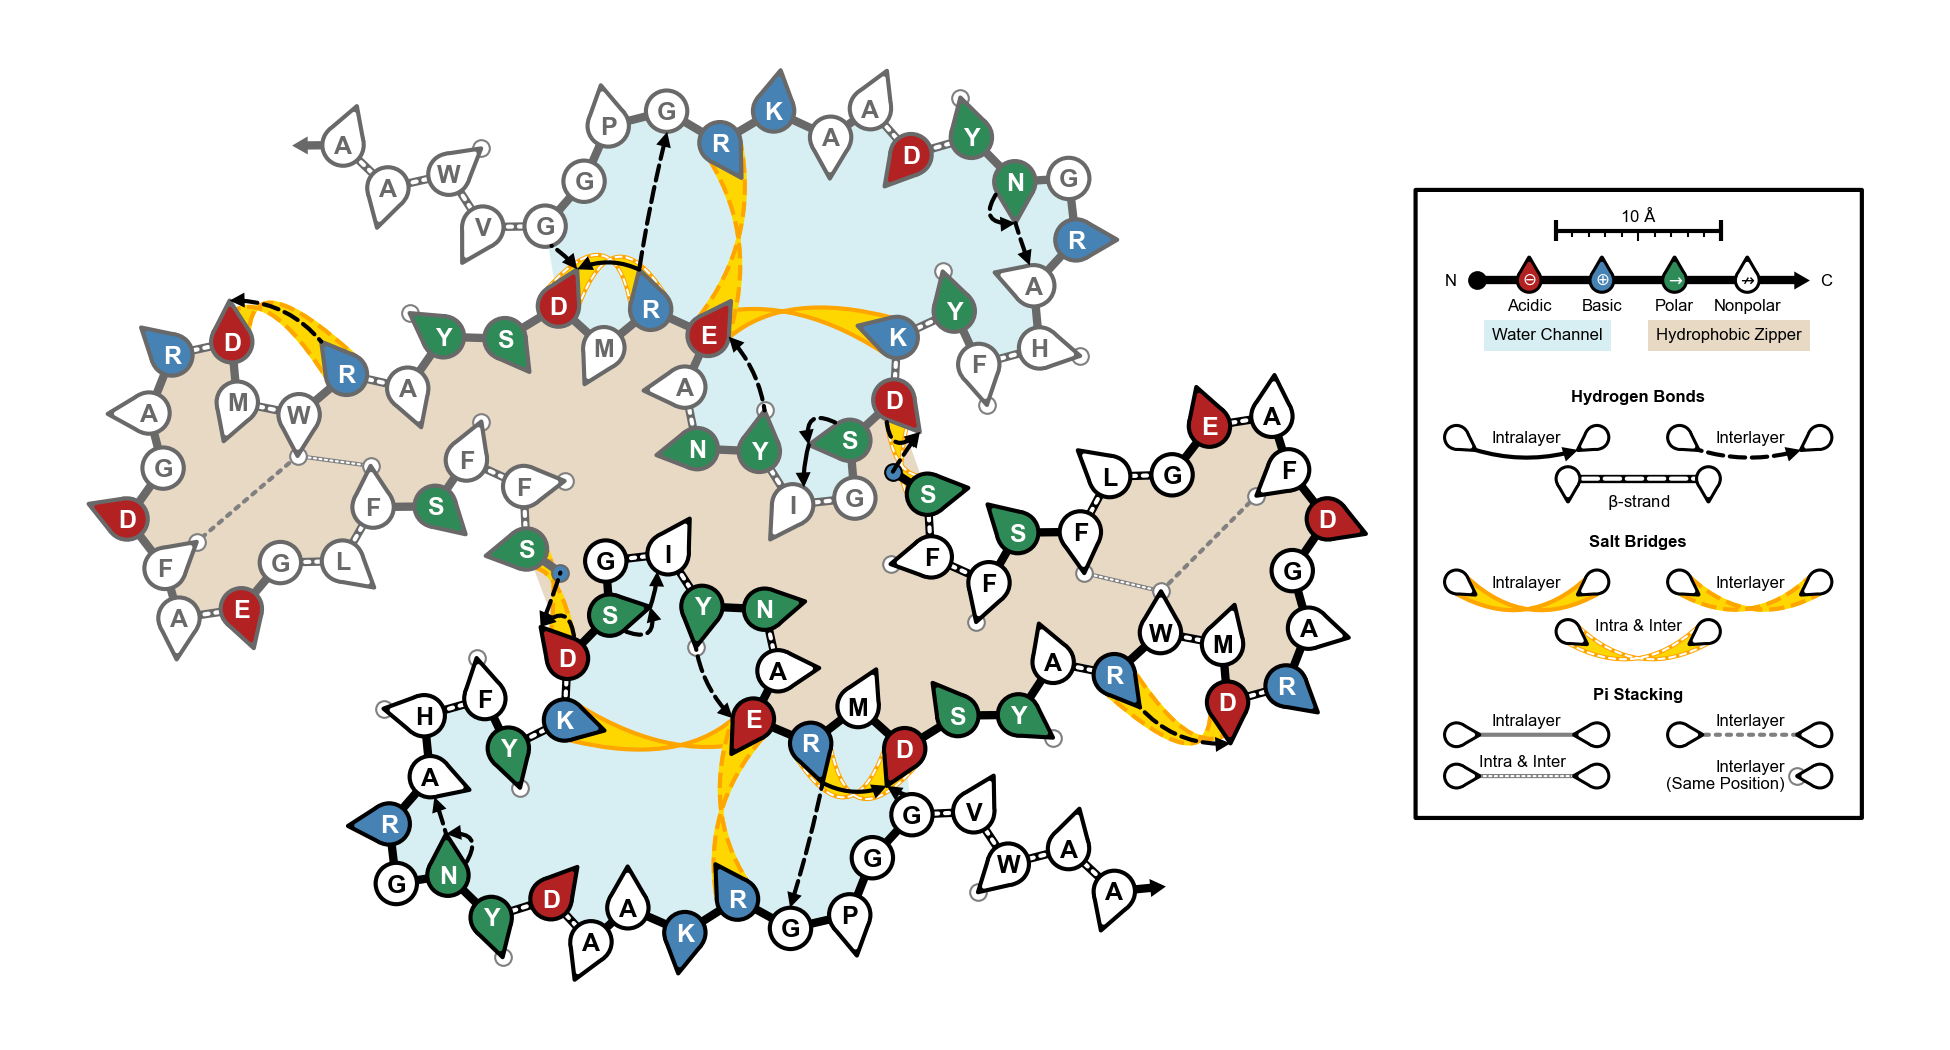
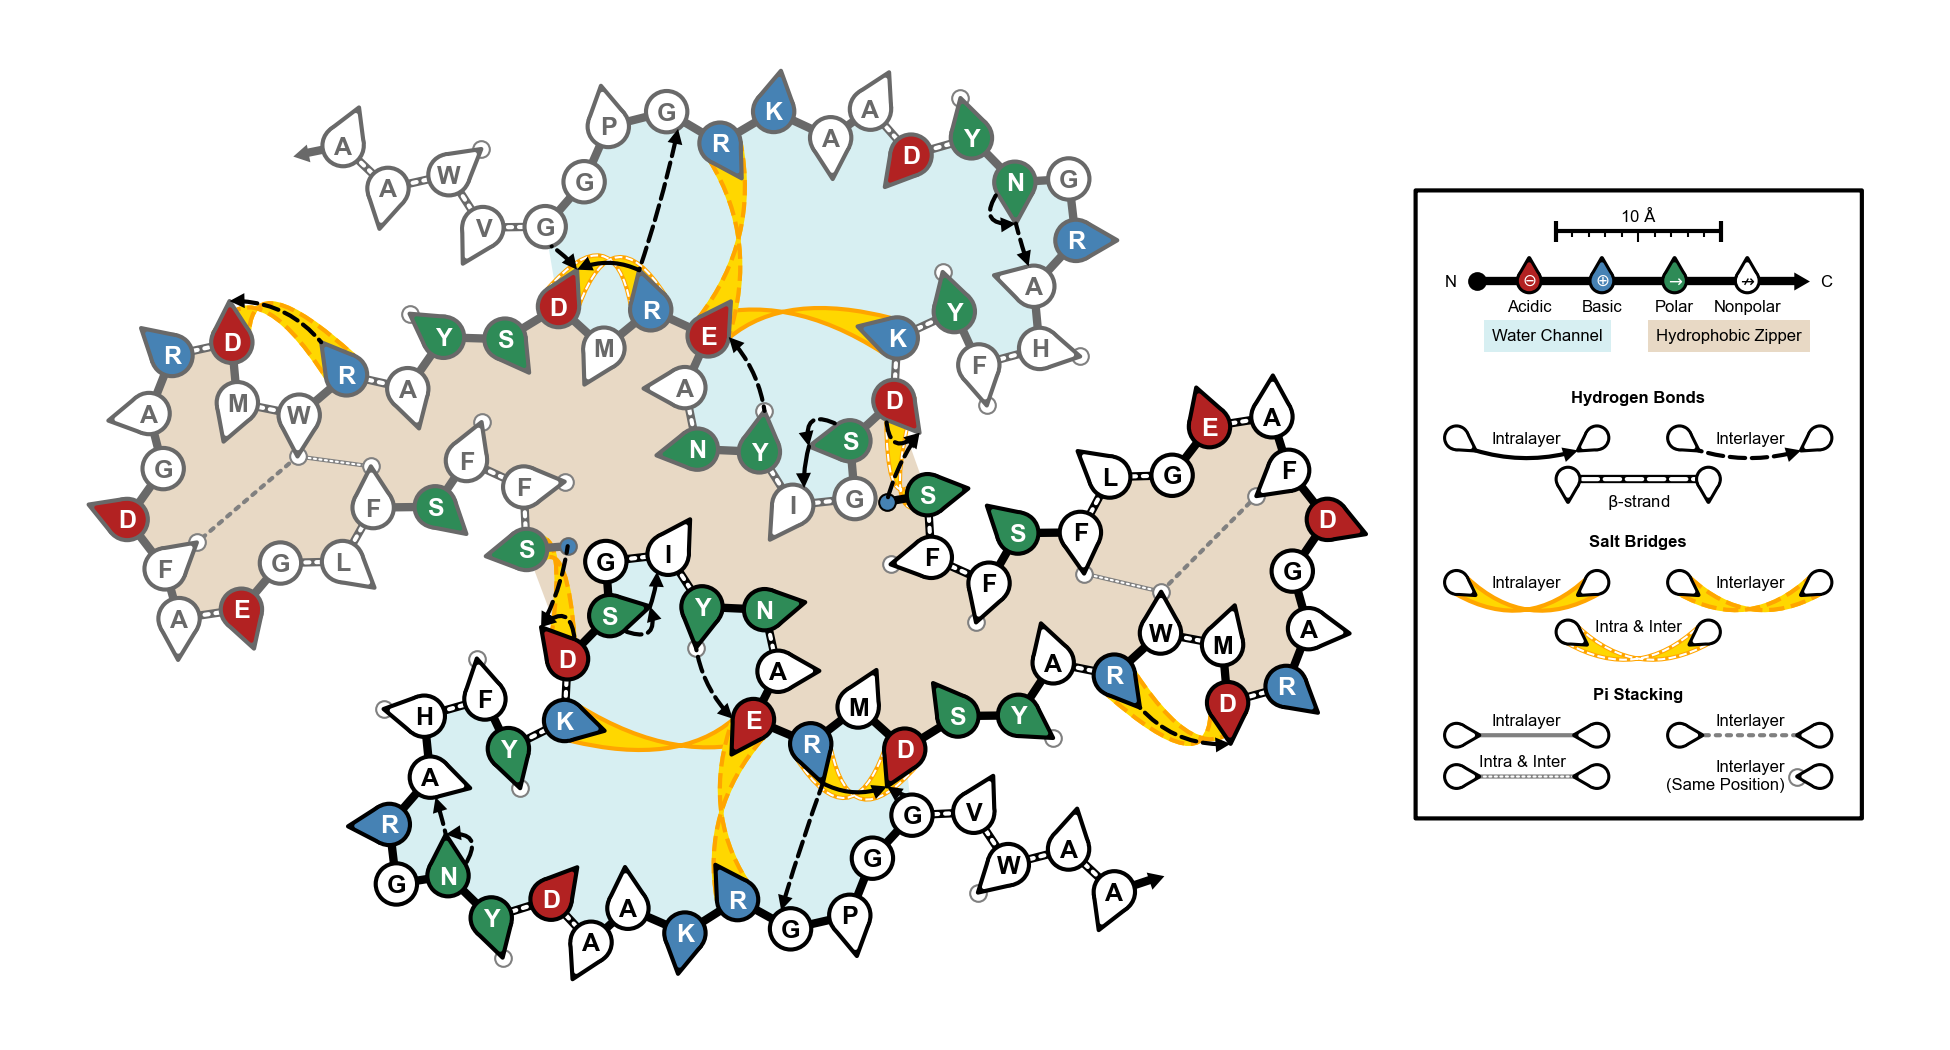
improve map positions alg

diff --git a/src/mapping.py b/src/mapping.py
@@ -324,7 +324,7 @@ def _align(mobile_fit, mobile_all, reference_fit, masses=None):
 
     return mobile_all, rmsd
 
-def _positions_mp(layer_indices, segids, TOP, TRAJ, reference_positions):
+def _positions_mp(frame_chunks, segids, TOP, TRAJ, reference_positions, term_atom_names):
     '''
     Function to parallelize mapping of fibril onto 2D plane
     '''
@@ -335,30 +335,31 @@ def _positions_mp(layer_indices, segids, TOP, TRAJ, reference_positions):
     Nterm_positions = np.zeros_like(Cterm_positions)
     RMSDs = np.zeros((segids.shape[0], u.trajectory.n_frames))
 
-    for li in layer_indices:
-        sel = f"segid {' '.join(segids[li,:])}"
-        layer = u.select_atoms(sel)
-        layerCA = layer.select_atoms("name CA") # Just the alpha carbons
-        # Collect Alpha Carbon, Side Chain, C-Terminus and N-Terminus Positions
-        u.trajectory[0]
-        for ts in tqdm(u.trajectory, leave=False):
+    bbsel = f'not backbone and not name {" ".join(term_atom_names)}'
+    termsel = f'name {" ".join(term_atom_names)}'
+
+    layers = [u.select_atoms(f"segid {' '.join(layer_segids)}") for layer_segids in segids]
+    layerCAs = [layer.select_atoms("name CA") for layer in layers]
+    for ts in tqdm(u.trajectory, leave=False):
+        for li, (layer, layerCA) in enumerate(zip(layers, layerCAs)):
             # RMSD fit layer to reference layer
             layer.positions, RMSDs[li, ts.frame] = _align(layerCA.positions, layer.positions, reference_positions)
 
+            # Collect Alpha Carbon, Side Chain, C-Terminus and N-Terminus Positions
             CAp, SCp, Ctermp, Ntermp = [], [], [], []
             for segment in layer.segments:
                 CA = segment.atoms.select_atoms("name CA")
                 CAp.append(CA.positions[:, :2])
                 res_scpos = []
                 for residue in segment.residues:
-                    SC = residue.atoms.select_atoms('not name C CA N O HA HN HT1 HT2 HT3 OT1 OT2 HT2B') # Just the sidechains
+                    SC = residue.atoms.select_atoms(bbsel) # Just the sidechains
                     if SC.n_atoms != 0:
                         res_scpos.append(SC.center_of_mass()[:2])
                     else:
                         res_scpos.append([0.0, 0.0])
                 SCp.append(np.array(res_scpos))
-                Ctermp.append(segment.residues[-1].atoms.select_atoms('name OT1 OT2').center_of_mass()[:2])
-                Ntermp.append(segment.residues[0].atoms.select_atoms('name N HT1 HT2 HT3').center_of_mass()[:2])
+                Ctermp.append(segment.residues[-1].atoms.select_atoms(termsel).center_of_mass()[:2])
+                Ntermp.append(segment.residues[0].atoms.select_atoms(termsel).center_of_mass()[:2])
             CA_positions += np.array(CAp)
             SC_positions += np.array(SCp)
             Cterm_positions += np.array(Ctermp)
@@ -492,12 +493,13 @@ class FibrilMap:
         Nterm_positions = np.zeros_like(Cterm_positions)
         RMSDs = np.zeros((self.__sysinfo.structure.shape[0], self.__u.trajectory.n_frames))
         
+        if self.__nprocs > self.__u.trajectory.n_frames:
+                self.__nprocs = self.__u.trajectory.n_frames
+
         if self.__nprocs != 1:
-            if self.__nprocs > self.__sysinfo.structure.shape[0]:
-                self.__nprocs = self.__sysinfo.structure.shape[0]
-            split_layers = np.array_split(np.arange(self.__sysinfo.structure.shape[0]), self.__nprocs)
+            frame_chunks = [(chunk[0], chunk[-1]+1) for chunk in np.array_split(np.arange(self.__u.trajectory.n_frames), self.__nprocs)]
             with multiprocessing.Pool(self.__nprocs) as p:
-                mp_args = [(i, self.__sysinfo.structure, self.__top, self.__traj, reference_positions) for i in split_layers]
+                mp_args = [(i, self.__sysinfo.structure, self.__top, self.__traj, reference_positions, self.__sysinfo.terminal_atom_names) for i in frame_chunks]
                 results = p.starmap(_positions_mp, mp_args)
             p.close()
             p.join()
@@ -508,8 +510,7 @@ class FibrilMap:
                 Nterm_positions += r["NT"]
                 RMSDs += r["RMSDs"]
         else:
-            layer_inds = list(range(self.__sysinfo.structure.shape[0]))
-            results = _positions_mp(layer_inds, self.__sysinfo.structure, self.__top, self.__traj, reference_positions)
+            results = _positions_mp((None, None), self.__sysinfo.structure, self.__top, self.__traj, reference_positions, self.__sysinfo.terminal_atom_names)
             CA_positions = results['CA']
             SC_positions = results['SC']
             Cterm_positions = results['CT']
@@ -579,6 +580,28 @@ class FibrilMap:
     def _init_figure(self, ca_positions, sc_positions, ct_positions, nt_positions):
         '''
         Initialize figure of correct size
+
+        Parameters
+        ----------
+        ca_positions : numpy.ndarray(dtype=float, shape=(N_Protofilaments, N_Residues, 2))
+            Array containing the positions of the alpha carbons in Angstroms
+        sc_positions : numpy.ndarray(dtype=float, shape=(N_Protofilaments, N_Residues, 2))
+            Array containing the positions of the sidechains in Angstroms
+        nt_positions : numpy.ndarray(dtype=float, shape=(N_Protofilaments, 2))
+            Array containing the positions of the N-termini in Angstroms
+        ct_positions : numpy.ndarray(dtype=float, shape=(N_Protofilaments, 2))
+            Array containing the positions of the C-termini in Angstroms
+        
+        Returns
+        ----------
+        ca_positions : numpy.ndarray(dtype=float, shape=(N_Protofilaments, N_Residues, 2))
+            Array containing the positions of the alpha carbons in figure points
+        sc_positions : numpy.ndarray(dtype=float, shape=(N_Protofilaments, N_Residues, 2))
+            Array containing the positions of the sidechains in figure points
+        nt_positions : numpy.ndarray(dtype=float, shape=(N_Protofilaments, 2))
+            Array containing the positions of the N-termini in figure points
+        ct_positions : numpy.ndarray(dtype=float, shape=(N_Protofilaments, 2))
+            Array containing the positions of the C-termini in figure points
         '''
         # First, we need to find the bead radius: Bead radius will be 1/3 the minimum alpha-Carbon alpha-Carbon "bonded" distance
         min_bonded_dist = np.ceil(np.min([np.sqrt((np.diff(p, axis=0)**2).sum(axis=1)) for p in ca_positions]))

diff --git a/README.md b/README.md
@@ -161,7 +161,11 @@ $P(A_i \; to \; B_i)$ and $\langle N(A_i \; to \; B_i) \rangle$ are then compute
 
 ### Residue Positions ###
 
-To determine the positions of the residues on the FibMap the positions of a central fibril layer are rotated such that the normal to their plane of best fit (as determined by singular value decomposition) is aligned with the Z-axis. All layers of the fibril at all timesteps are then RMSD-fit to this layer using the Kabsch algorithm. The mean XY-position of each alpha-carbon, sidechain center-of-mass, or terminal atom center-of-mass is then taken for each position. In the future, I may play around with various projections, but for now I figure that it's best to keep it simple. 
+To determine the positions of the residues on the FibMap the positions of a central fibril layer are rotated such that the vector defined by its longest interatomic distance is aligned with the X-Axis. The purpose of this is twofold: (1) It will orient the layer so that it is closely aligned to the XY-plane, and (2) It will orient the positions so that the FibMap is wider than it is tall (i.e. landscape orientation). All layers of the fibril at all timesteps are then RMSD-fit to this layer using the Kabsch algorithm. The mean XY-position of each alpha-carbon, sidechain center-of-mass, or terminal atom center-of-mass is then taken for each position. 
+
+> *NOTE: In the future, I may play around with various projections, but for now I figure that it's best to keep it simple.*
+>
+> *NOTE: In the future, I will add an option for a portrait orientation.*
 
 <p align="left">(<a href="#top">back to top</a>)</p>
 
